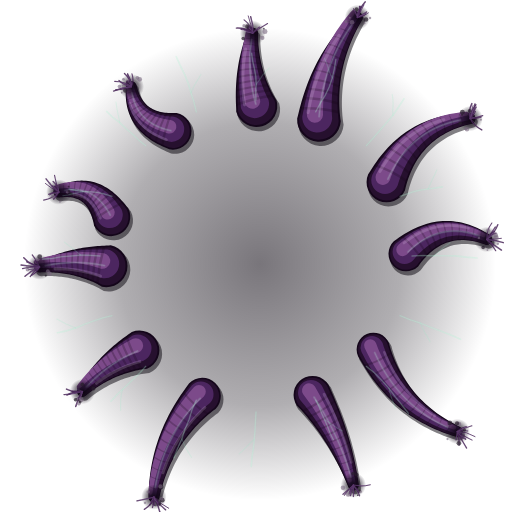
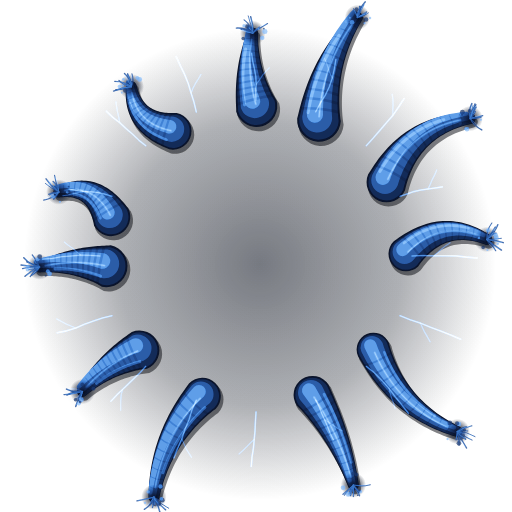
Recolour the hive's painted roots blue
The roots.png layer of all 19 painted growths (the Bloom included) is now a
clear blue, keeping each layer's light, shade and alpha. Made with
art/source/recolor_roots.py; only the colour changed.

Claude-Session: https://claude.ai/code/session_011Df18uXJFfteMyAYpAVXtN

diff --git a/art/source/recolor_roots.py b/art/source/recolor_roots.py
@@ -1,0 +1,22 @@
+# Recolours the painted root layers (art/plant/*/roots.png) to a clear blue, the pale blue of the Brood Chamber's sacs made bluer.
+# Each pixel keeps its alpha and its light and shade; its colour comes from the blue ramp below at the same brightness, with the
+# layer's lit roots brightened into the ramp's middle (shadows stay dark). Usage: python3 recolor_roots.py <src dir> <out dir>
+# where both hold one folder per structure (art/plant). Run it on freshly painted roots, not on already recoloured ones.
+import sys,os
+from PIL import Image
+src,out=sys.argv[1],sys.argv[2]
+lum=lambda p:.299*p[0]+.587*p[1]+.114*p[2]
+STOPS=[(0,(0,0,0)),(28,(14,30,66)),(70,(34,78,150)),(115,(64,130,214)),(165,(120,180,246)),(210,(184,222,255)),(255,(240,250,255))]
+lut=[]
+for L in range(256):
+    j=next(k for k in range(1,len(STOPS)) if STOPS[k][0]>=L);(l0,c0),(l1,c1)=STOPS[j-1],STOPS[j];t=(L-l0)/(l1-l0)
+    lut.append(tuple(round(a+(b-a)*t) for a,b in zip(c0,c1)))
+for d in sorted(os.listdir(src)):
+    fn=os.path.join(src,d,'roots.png')
+    if not os.path.isfile(fn):continue
+    im=Image.open(fn).convert('RGBA');px=list(im.getdata())
+    lit=sorted(lum(p) for p in px if p[3]>100 and lum(p)>20)
+    g=150/lit[int(len(lit)*.9)] if lit else 1                             # the layer's brighter roots land in the ramp's middle
+    im.putdata([(*lut[min(255,round(lum(p)*g))],p[3]) if p[3] else p for p in px])
+    os.makedirs(os.path.join(out,d),exist_ok=True);im.save(os.path.join(out,d,'roots.png'),optimize=True)
+    print(d,'gain %.2f'%g)

diff --git a/art/ART-GUIDE.md b/art/ART-GUIDE.md
@@ -592,3 +592,7 @@ With these four every one of the 26 hive structures is painted. The art is visua
 ### The Bulwark Ant and the Petal Gate (v42 gameplay)
 
 The Petal Gate is now too narrow for a Bulwark Ant, as its description always said. Mites and Thornbacks pass both gates; the Bulwark passes only the Maw Gate. The Bulwark has `large:true` in `U`. While a large ant of ours moves, plans a path, is pushed by the crowd or is placed by a hatching, a flag (`NARROW`) makes `solidFor` treat our Petal Gates as solid for it, so collision, A* routes, getting unstuck, the hatching tile and crowd pushing all keep it out. In Siege it follows its own route field (`FLOWL`, built the same way, not saved). `gateOpen` ignores large ants at a Petal Gate, so the gate stays shut for them. A Bulwark that cannot reach its goal walks to the nearest point it can reach and waits there, re-planning every few seconds, so it goes on its way as soon as a route opens. A Bulwark loaded from an older save while standing inside a Petal Gate is moved to the nearest open ground by the game's existing unstick (one short hop). The save format is unchanged.
+
+### Root colour (v42 follow-up)
+
+The painted root layers (`roots.png`) of all 19 growths that have them, the Bloom included, are recoloured a clear blue (the pale blue of the Brood Chamber's sacs, made bluer). `art/source/recolor_roots.py` takes each pixel's colour from a blue ramp at the same brightness and keeps its alpha, light and shade; the brighter roots of each layer are lifted into the ramp's middle and the shadows stay dark. Run it on freshly painted roots (`python3 art/source/recolor_roots.py art/plant art/plant` after repainting), not on roots it has already recoloured. Only the colour changed: sizes, anchors and every other layer are as before, and Low quality keeps the previous look.

diff --git a/docs/v42-weapons-brood-art.md b/docs/v42-weapons-brood-art.md
@@ -156,3 +156,10 @@ No fields were added. Visual memory (flinch, fire pulse, gathering, sac state, e
 - A Bulwark with no way to its goal waits at the nearest reachable point rather than finding a new task.
 - HDF turrets and factories keep their colony look; only the hive's are painted.
 - The rendering times are from headless Chromium with software drawing.
+
+## Follow-up: root colour
+
+The roots under every painted growth (19 layers, the Bloom's included) are now a clear blue, made with `art/source/recolor_roots.py` (see *Root colour* in the art guide). Only the colour changed.
+
+![Roots before and after](screenshots/v42/roots_recolour.jpg)
+![Roots at zoom 4](screenshots/v42/roots_recolour_close.jpg)
